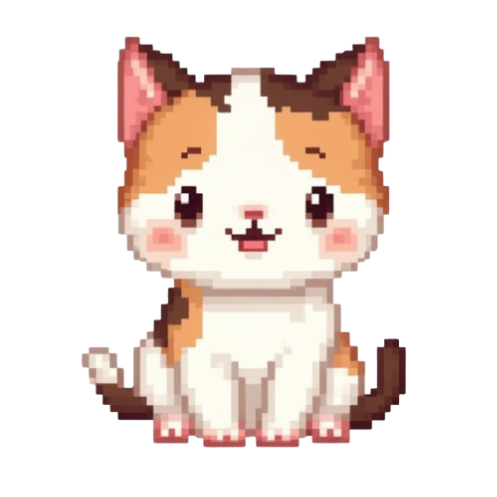
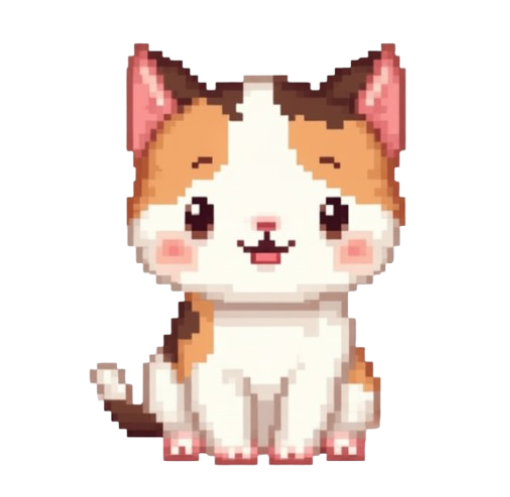
New kitten and royal cat images; royal cat displayed larger (280px)
Made-with: Cursor

Changed region(s): [[0.1509, 0.0604, 0.8149, 0.9356]]

diff --git a/app/(tabs)/pet.tsx b/app/(tabs)/pet.tsx
@@ -41,6 +41,7 @@ const catImages: Record<CatStage, ImageSourcePropType> = {
 };
 
 const CAT_SIZE = 240;
+const CAT_SIZE_ADULT = 280; // royal cat slightly bigger
 const PX = 4; // pixel art unit size
 
 // 7 × 6 red pixel heart
@@ -329,10 +330,12 @@ export default function PetScreen() {
   const canEvolve = stage !== "adult" && xp >= xpThresholds[stage];
   const xpPercent = Math.min((xp / 100) * 100, 100);
 
+  const catSize = stage === "adult" ? CAT_SIZE_ADULT : CAT_SIZE;
+
   // Particle anchor positions within catWrap
-  const heartCenterX = CAT_SIZE / 2 - PX * 3.5; // center 7-col heart
-  const sparkCenterX = CAT_SIZE / 2 - PX * 2.5; // center 5-col star
-  const sparkCenterY = CAT_SIZE / 2 - PX * 2.5;
+  const heartCenterX = catSize / 2 - PX * 3.5; // center 7-col heart
+  const sparkCenterX = catSize / 2 - PX * 2.5; // center 5-col star
+  const sparkCenterY = catSize / 2 - PX * 2.5;
 
   return (
     <LinearGradient
@@ -365,12 +368,16 @@ export default function PetScreen() {
 
         {/* ── Pet display ── */}
         <View style={styles.main}>
-          <Pressable onPress={handlePetCat} style={styles.catWrap}>
+          <Pressable
+            onPress={handlePetCat}
+            style={[styles.catWrap, { width: catSize, height: catSize }]}
+          >
             {/* Cat image (renders first = behind particles) */}
             <Animated.Image
               source={catImages[stage]}
               style={[
                 styles.catImage,
+                { width: catSize, height: catSize },
                 {
                   opacity: catOpacity,
                   transform: [{ translateY: floatAnim }, { scale: catScale }],
@@ -388,7 +395,7 @@ export default function PetScreen() {
                   styles.particle,
                   {
                     left: heartCenterX + h.x,
-                    top: CAT_SIZE * 0.45,
+                    top: catSize * 0.45,
                     transform: [{ translateY: h.translateY }],
                     opacity: h.opacity,
                   },
